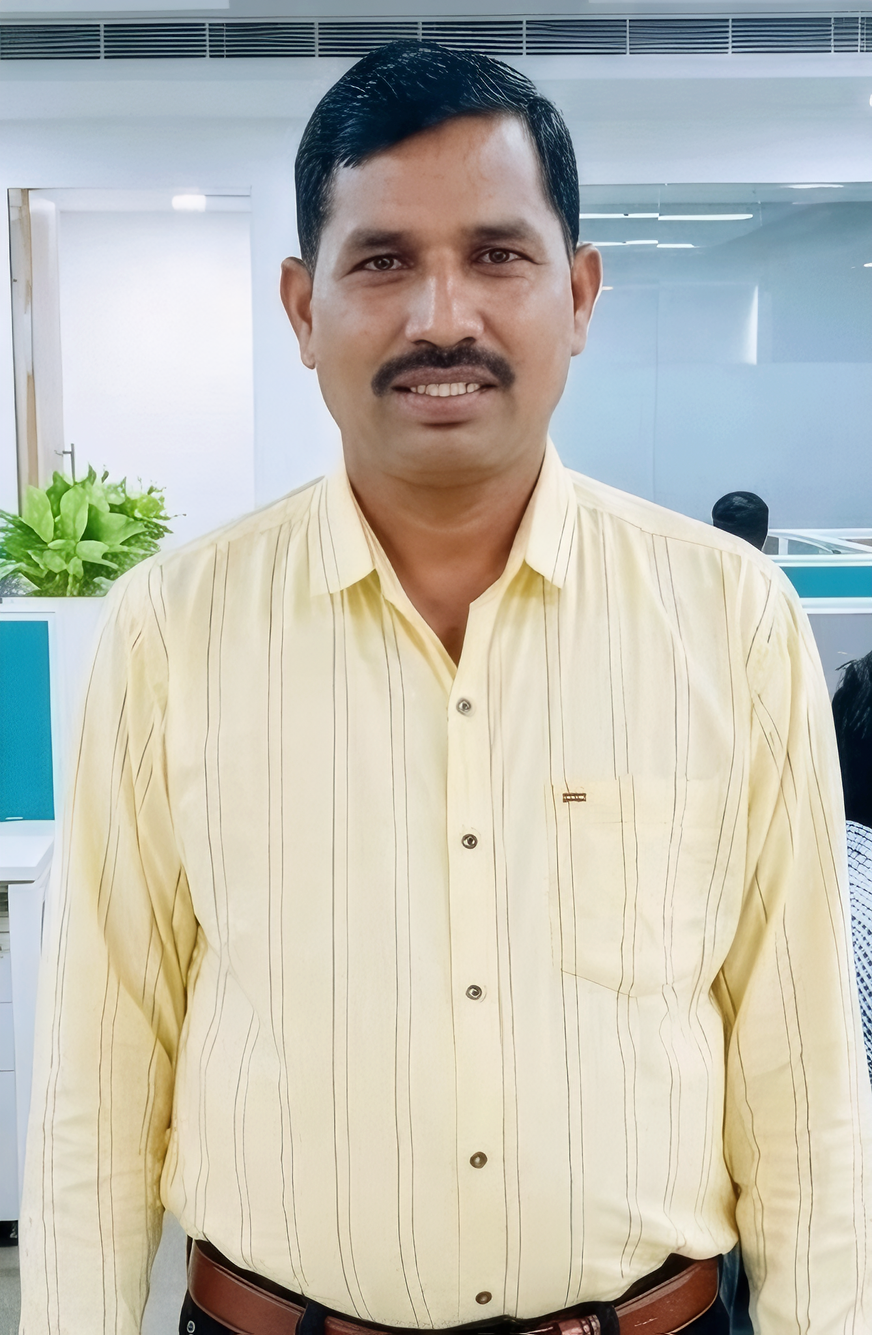
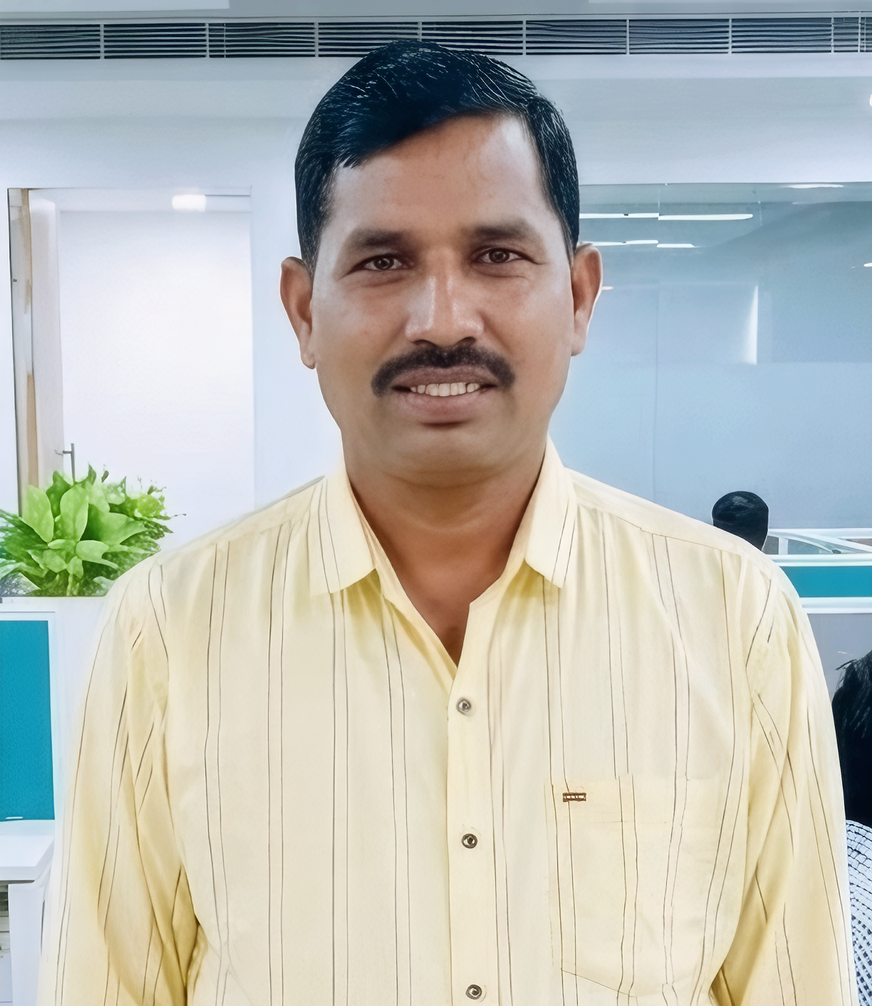
Change hero

diff --git a/src/components/Navbar/Navbar.js b/src/components/Navbar/Navbar.js
@@ -17,7 +17,7 @@ export default function Navbar() {
     }`;
 
   return (
-    <nav className="bg-gray-900 text-white sticky top-0 z-50 shadow-lg">
+    <nav className="fixed top-0 left-0 w-full z-[1000] bg-black/20 backdrop-blur-lg shadow-lg text-white">
       <div className="max-w-7xl mx-auto px-6 py-4 flex justify-between items-center">
         {/* Logo Section */}
         <Link href="/" className="flex items-center gap-3">
@@ -29,7 +29,7 @@ export default function Navbar() {
             className="object-contain"
           />
           <span className="text-xl font-bold">
-            N.P. <span className="text-orange-500">InfraProjectsIndia</span>
+            N.P. <span className="text-orange-500">Infra Projects India pvt. Ltd.</span>
           </span>
         </Link>
 

diff --git a/src/app/page.js b/src/app/page.js
@@ -36,7 +36,7 @@ export default function Home() {
   const slides = [
     "/images/hero/hero1.jpeg",
     "/images/hero/hero2.jpg",
-    "/images/hero/hero3.jpeg",
+    "/images/hero/hero4.jpeg",
   ];
 
   const [index, setIndex] = useState(0);
@@ -49,7 +49,7 @@ export default function Home() {
   }, []);
 
   return (
-    <div className="relative h-[90vh] w-full">
+    <div className="relative h-[100vh] w-full">
       <Image
         src={slides[index]}
         alt="Hero"
